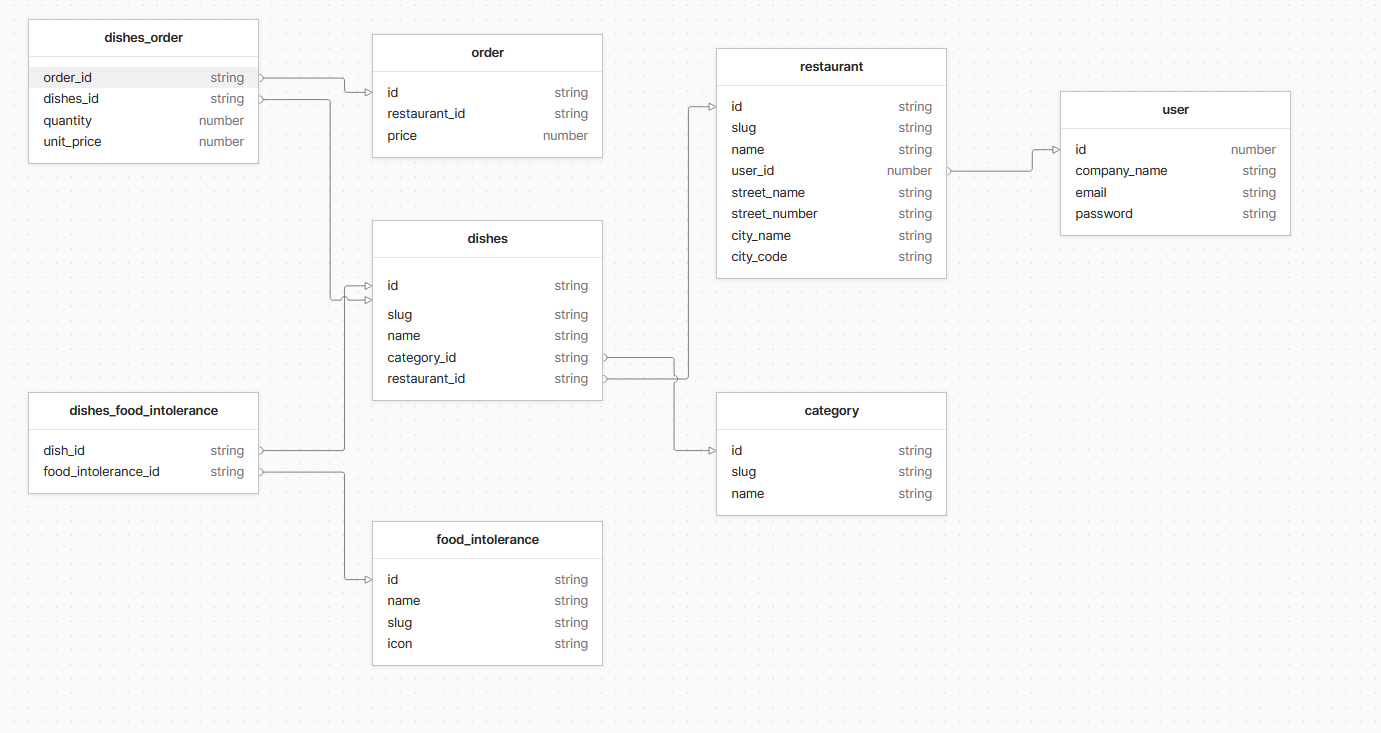
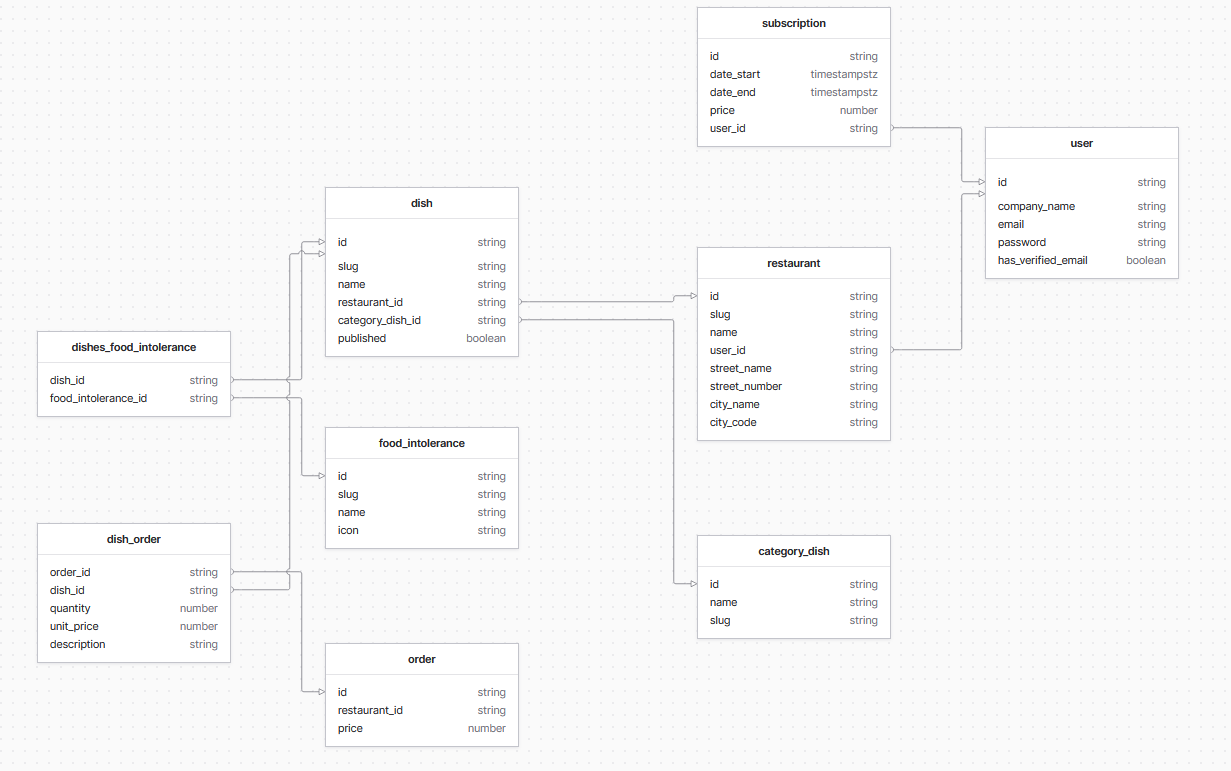
Update README 📝

diff --git a/README.md b/README.md
@@ -7,7 +7,17 @@ Platform where a restaurant owner create the menu for his restaurants. The menu 
 -   Back - NestJS => TypeORM/PSQL
 -   Front - NextJS => TailwindCSS/HeadlessUI
 
-## Features V1 - Dashboard
+## Improve skills
+
+-   Using UUID as primary key
+-   Using slug for route param
+    -   :x: /restaurant/{insert_id}
+    -   :white_check_mark: /restaurant/super-restaurant/dishes/super-dish
+-   Multiple column unique constraint for dish [slug, restaurant_id]
+-   Soft Delete/Hard Delete
+-   Optimize Images (Sharp NodeJS ???)
+
+## Features V1 - Owner Restaurant Dashboard
 
 [Figma](https://www.figma.com/file/hcWEVuMRzAMyamRS0YhPcF/QR_payment?node-id=0%3A1)
 
@@ -28,9 +38,14 @@ Platform where a restaurant owner create the menu for his restaurants. The menu 
     -   Description
     -   Select category => Starter, main dishes, dessert, drink, ... (Only One)
     -   Select food intolerance => Vegan, Only Meat, ... (Many can be selected)
-    -   (PROMO)
 
 -   Generate QR Code for the menu
+
+-   Display last orders, make some stats about best dishes or last month profit, ... :arrow_upper_right:
+
+## Features V1 - Admin Dashboard (me :smiling_imp:)
+
+-   Manage Users (delete, revoke rights (??? remove token ???), ...)
 
 ## Features V1 - Client
 
